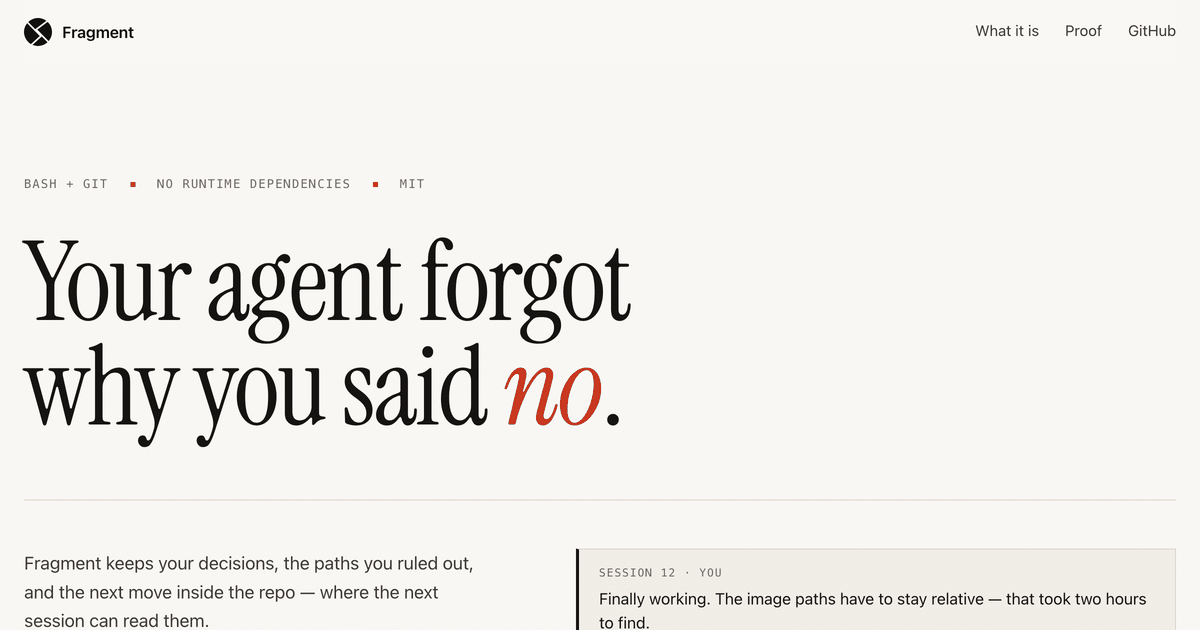
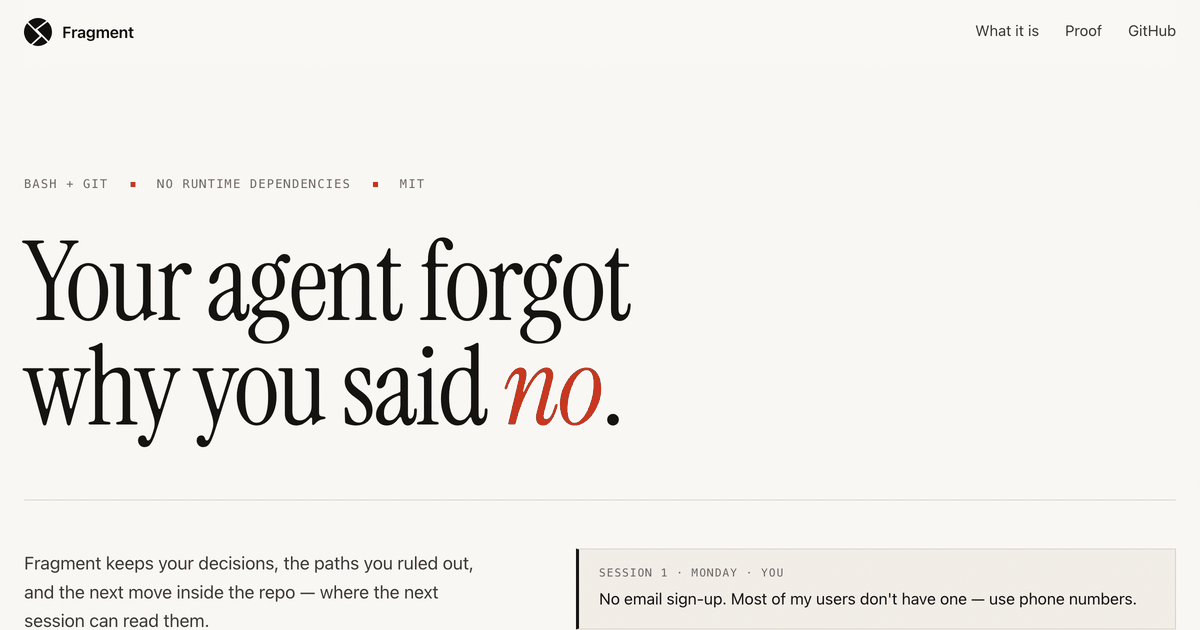
docs: write the complaint people actually have, and say whose harness this is
The previous scenario -- image paths that have to stay relative -- was still
written from the inside. A beginner never phrases the problem that way, because
"relative versus absolute path" is already the vocabulary of someone who knows
what went wrong. It read as a puzzle for people who have solved it before.

What people actually report, when you go looking: an agent that claims a bug is
fixed three times in a row and is still broken in production; a fix that breaks
something else, then another, with the credit meter running the whole time; and
long conversations where the model quietly loses what was decided early on. Not
one of those complaints is about a file path.

So the transcript is now the one everybody has lived. Monday, session 1, you
say no to email sign-up because most of your users don't have one. Thursday,
session 12, the agent opens by asking whether sign-up should use email or a
phone number -- as if the conversation never happened. It starts at session 1
because that is where people start, not at session 12 where they have already
learned the vocabulary.

There is a line this deliberately does not cross. "I asked it to change one
component and it changed three" is the loudest complaint of all, and Fragment
does not fix it -- that is scope discipline, not continuity. Building the pitch
on it would be selling something the tool does not do.

Also names something that was implicit. Every agent already runs inside a
[…]

Changed region(s): [[0.4933, 0.9048, 0.9558, 1.0]]

diff --git a/site/index.html b/site/index.html
@@ -78,19 +78,19 @@
 
           <div class="transcript" aria-label="The same question, forty sessions apart">
             <article class="turn">
-              <p class="turn-meta">Session 12 · you</p>
-              <p class="turn-body">Finally working. The image paths have to stay relative — that took two hours to find.</p>
+              <p class="turn-meta">Session 1 · Monday · you</p>
+              <p class="turn-body">No email sign-up. Most of my users don't have one — use phone numbers.</p>
             </article>
 
             <article class="turn turn-bad">
-              <p class="turn-meta">Session 40 · your agent, without Fragment</p>
-              <p class="turn-body">I've tidied the image paths into absolute URLs so they're consistent.</p>
-              <p class="turn-note">The images break again. You no longer remember why they were like that.</p>
+              <p class="turn-meta">Session 12 · Thursday · your agent, without Fragment</p>
+              <p class="turn-body">Before I start — should sign-up use email, or a phone number?</p>
+              <p class="turn-note">You explained this on Monday. It is as if the conversation never happened.</p>
             </article>
 
             <article class="turn turn-good">
-              <p class="turn-meta">Session 40 · your agent, with Fragment</p>
-              <p class="turn-body">Absolute paths were ruled out in session 12 — they break once the site is deployed under a subfolder. Leaving these relative.</p>
+              <p class="turn-meta">Session 12 · Thursday · your agent, with Fragment</p>
+              <p class="turn-body">Email sign-up was ruled out on Monday — most of your users don't have one. Phone numbers it is. Picking up where you stopped, on the checkout screen.</p>
             </article>
           </div>
         </div>
@@ -111,24 +111,25 @@
               <p class="file-name">docs/STATE.md</p>
               <pre><code># State
 
-**Focus** — get the site deploying without broken images
+**Focus** — get checkout working end to end
 
-**Active fragment** — 04 · deploy to GitHub Pages · BLOCKED
-**Waiting on** — you: a custom domain, or keep the /project-name URL
+**Active fragment** — 04 · checkout · BLOCKED
+**Waiting on** — you: what should happen when a payment fails?
 
 ## Decisions
-- Image paths stay relative.
-  Rejected: absolute URLs, because they break once the site
-  lives in a subfolder. Cost two hours to find the first time.
+- Sign-up is by phone number.
+  Rejected: email, because most of our users don't have one.
+  Asked and answered on Monday. Do not ask again.
 
 ## Next
-- Settle the domain; the paths question closes with it.</code></pre>
+- Answer the failed-payment question, then checkout can finish.</code></pre>
             </div>
 
             <div class="what-copy">
               <p>No database, no daemon, no account. Markdown your agent reads at the start of a session, and updates at the end of one.</p>
               <p>Because it lives in the repo, it travels the way code travels: through branches, pull requests, and whoever clones it next.</p>
-              <p class="aside">It does not run the model. It hands whoever arrives next the same story you had.</p>
+              <p>Every agent already runs inside a harness — the one built into the tool. It sits behind the product, you cannot read it, and it changes when they ship.</p>
+              <p class="aside">This one is yours. It does not run the model; it hands whoever arrives next the same story you had, in files you can read and take to the next tool.</p>
             </div>
           </div>
         </div>
@@ -146,7 +147,7 @@
           <div class="why-grid">
             <figure class="terminal">
               <figcaption>$ git log --oneline -3</figcaption>
-              <pre><code>a41f0c2  fix images again
+              <pre><code>a41f0c2  fix sign-up again
 9d7e1b8  wip
 2c30ff5  try the other approach</code></pre>
             </figure>

diff --git a/README.md b/README.md
@@ -76,7 +76,7 @@ Without:
 
 ```console
 $ git log --oneline -3
-a41f0c2  fix images again
+a41f0c2  fix sign-up again
 9d7e1b8  wip
 2c30ff5  try the other approach
 ```
@@ -86,21 +86,21 @@ With:
 ```console
 $ head -20 docs/STATE.md
 ## Active fragment
-04 — Deploy to GitHub Pages · BLOCKED
+04 — Checkout · BLOCKED
 
 ## Blocked / waiting on a human
-| What                                     | Waiting on | Since      |
-| A custom domain, or keep the /repo URL   | you        | 2026-08-26 |
+| What                                  | Waiting on | Since      |
+| What happens when a payment fails     | you        | 2026-08-26 |
 
 ## Decisions
-- Image paths stay relative.
-  Rejected: absolute URLs, because they break once the site lives in a
-  subfolder. Cost two hours to find the first time.
+- Sign-up is by phone number.
+  Rejected: email, because most of our users don't have one.
+  Asked and answered on Monday. Do not ask again.
 
 ## Session log
-- 2026-08-26 · codex · 04 · images loaded locally but broke on the deployed
-  site; the cause was absolute paths, now reverted · next: you pick the domain,
-  then this closes
+- 2026-08-26 · codex · 04 · checkout takes a phone number and reaches the
+  payment step · next: you say what a failed payment should show, then this
+  finishes
 ```
 
 The second one is not documentation. It is what the work leaves behind whether
@@ -113,6 +113,17 @@ sees, the rules it follows, and the feedback that tells it the work is done.
 Fragment handles the part that usually disappears at the session boundary.
 It does not run or replace your coding agent; it gives whichever agent arrives
 next the same durable story.
+
+**Every agent already runs inside a harness. It just isn't yours.** It belongs
+to whoever built the tool, it sits behind the product where you cannot read it,
+and it changes when they ship. You cannot version it, review it, argue with it,
+or carry it to the next tool when you switch.
+
+Fragment puts a harness in your repository instead: plain files you can open,
+edit, review in a pull request, and take with you. Harness engineering stops
+being something that happens behind the tool and becomes something you do
+beside it — which is most of the distance between using an agent and owning the
+project it works on.
 
 An agent does not start by reading everything. It follows the story toward the
 code that matters:
